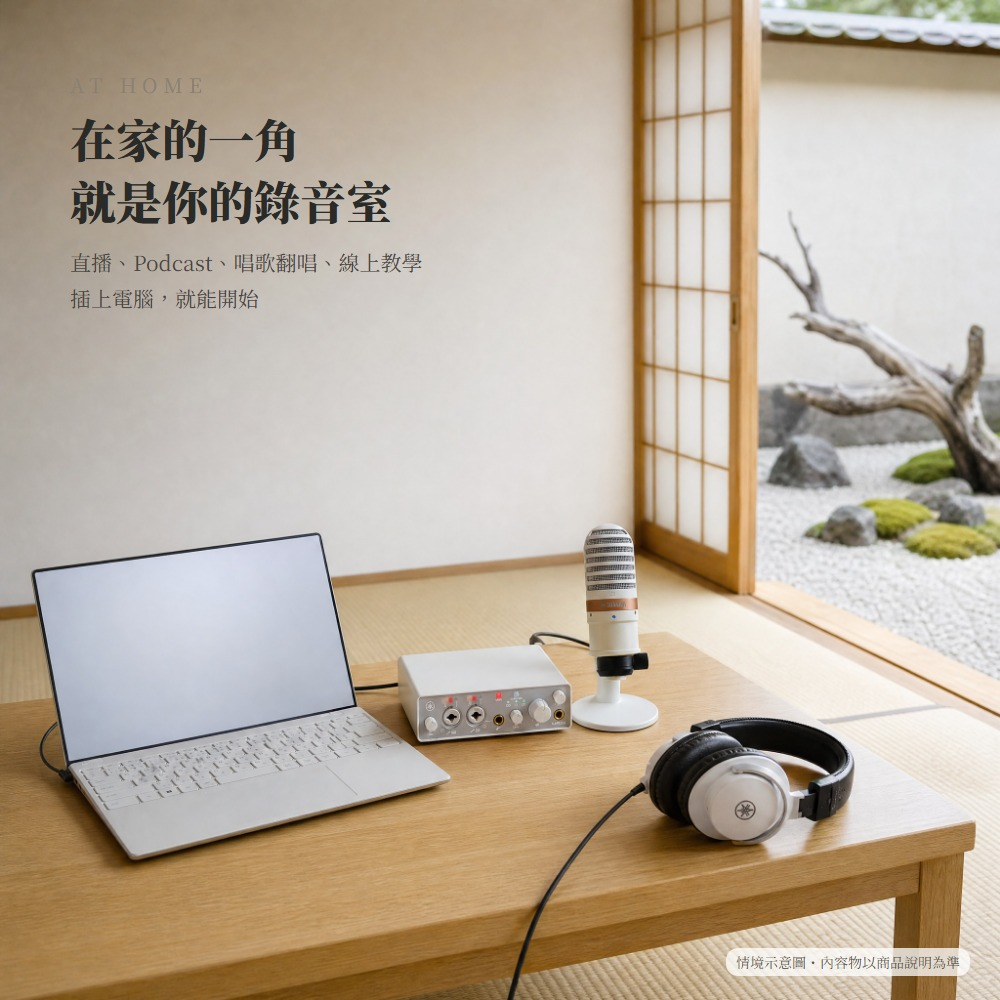
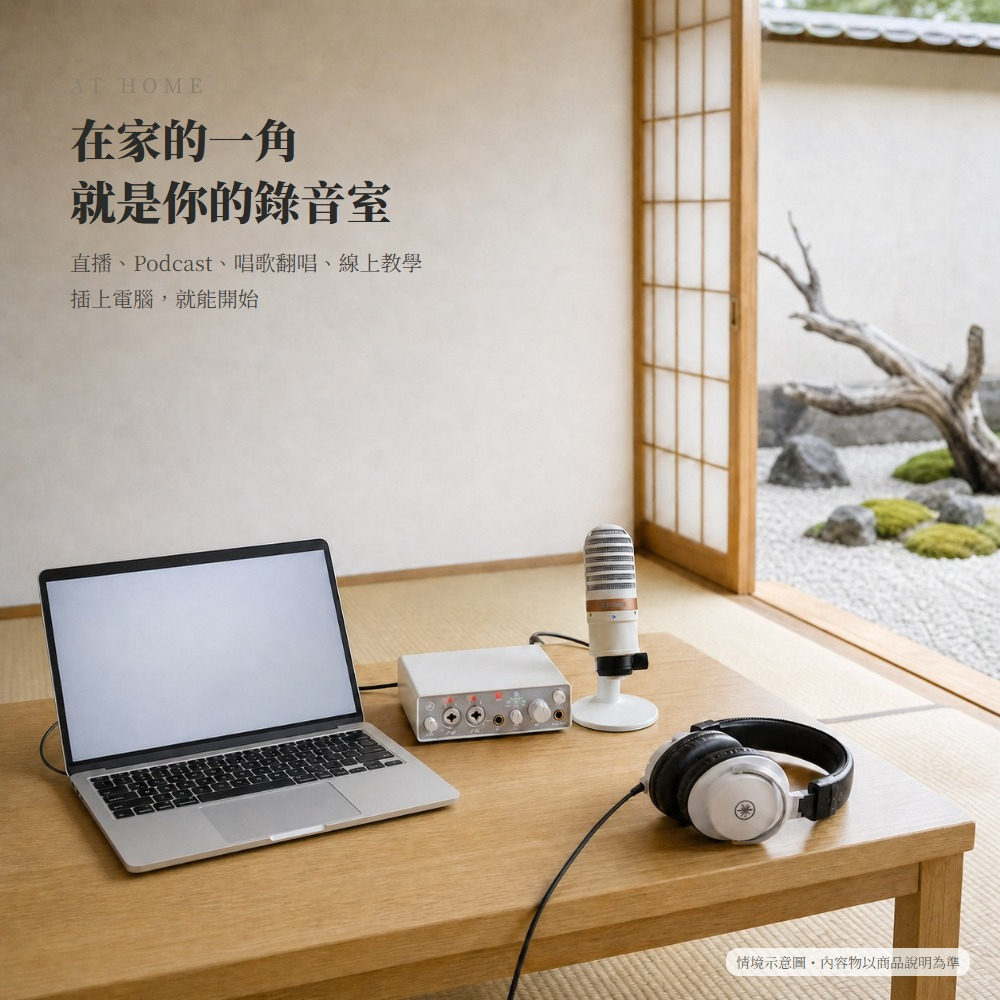
白色直播套組：加日系枯木＋店貓版14張、筆電換蘋果

diff --git a/audio/white-stream/index.html b/audio/white-stream/index.html
@@ -2,5 +2,5 @@
 <title>白色直播套組 上架圖</title><style>body{margin:0;background:#f5f5f7;font-family:-apple-system,"PingFang TC","Microsoft JhengHei",sans-serif;color:#1d1d1f}
 .w{max-width:1100px;margin:0 auto;padding:24px 16px 60px}h1{font-size:26px;margin:0 0 6px}p{color:#6e6e73;margin:0 0 16px;line-height:1.6}h2{font-size:20px;margin:26px 0 10px}
 .g{display:grid;grid-template-columns:repeat(auto-fill,minmax(160px,1fr));gap:10px}.g a{background:#fff;border-radius:10px;overflow:hidden;text-decoration:none;color:#333;font-size:12px}.g img{width:100%;display:block}.g span{display:block;padding:6px 8px}</style></head>
-<body><div class="w"><h1>白色直播套組 上架圖</h1><p>UR22MK3（白）＋YCM01 或 YDM707（白）＋HPH-MT5（白）。兩套風格：店貓ㄅㄅ版、官網日系枯山水版。順序＝主圖→情境→介面→面板→麥克風→耳機→接法用途→內容物→尺寸→規格→三須知。點圖看原尺寸。</p>
-<h2>店貓版（14 張）</h2><div class="g"><a href="cat/WS_cat_01_main.jpg" target="_blank"><img loading="lazy" src="cat/WS_cat_01_main.jpg"><span>cat_01_main</span></a><a href="cat/WS_cat_02_scene.jpg" target="_blank"><img loading="lazy" src="cat/WS_cat_02_scene.jpg"><span>cat_02_scene</span></a><a href="cat/WS_cat_03_ur22mk3.jpg" target="_blank"><img loading="lazy" src="cat/WS_cat_03_ur22mk3.jpg"><span>cat_03_ur22mk3</span></a><a href="cat/WS_cat_04_panel.jpg" target="_blank"><img loading="lazy" src="cat/WS_cat_04_panel.jpg"><span>cat_04_panel</span></a><a href="cat/WS_cat_05_mic.jpg" target="_blank"><img loading="lazy" src="cat/WS_cat_05_mic.jpg"><span>cat_05_mic</span></a><a href="cat/WS_cat_06_hph-mt5.jpg" target="_blank"><img loading="lazy" src="cat/WS_cat_06_hph-mt5.jpg"><span>cat_06_hph-mt5</span></a><a href="cat/WS_cat_07_usage.jpg" target="_blank"><img loading="lazy" src="cat/WS_cat_07_usage.jpg"><span>cat_07_usage</span></a><a href="cat/WS_cat_08_contents.jpg" target="_blank"><img loading="lazy" src="cat/WS_cat_08_contents.jpg"><span>cat_08_contents</span></a><a href="cat/WS_cat_09_size.jpg" target="_blank"><img loading="lazy" src="cat/WS_cat_09_size.jpg"><span>cat_09_size</span></a><a href="cat/WS_cat_10_spec_ur22mk3.jpg" target="_blank"><img loading="lazy" src="cat/WS_cat_10_spec_ur22mk3.jpg"><span>cat_10_spec_ur22mk3</span></a><a href="cat/WS_cat_11_spec_mic_hp.jpg" target="_blank"><img loading="lazy" src="cat/WS_cat_11_spec_mic_hp.jpg"><span>cat_11_spec_mic_hp</span></a><a href="cat/WS_cat_12_buy.jpg" target="_blank"><img loading="lazy" src="cat/WS_cat_12_buy.jpg"><span>cat_12_buy</span></a><a href="cat/WS_cat_13_return.jpg" target="_blank"><img loading="lazy" src="cat/WS_cat_13_return.jpg"><span>cat_13_return</span></a><a href="cat/WS_cat_14_remote.jpg" target="_blank"><img loading="lazy" src="cat/WS_cat_14_remote.jpg"><span>cat_14_remote</span></a></div><h2>官網日系枯山水版（14 張）</h2><div class="g"><a href="web/WS_web_01_main.jpg" target="_blank"><img loading="lazy" src="web/WS_web_01_main.jpg"><span>web_01_main</span></a><a href="web/WS_web_02_scene.jpg" target="_blank"><img loading="lazy" src="web/WS_web_02_scene.jpg"><span>web_02_scene</span></a><a href="web/WS_web_03_ur22mk3.jpg" target="_blank"><img loading="lazy" src="web/WS_web_03_ur22mk3.jpg"><span>web_03_ur22mk3</span></a><a href="web/WS_web_04_panel.jpg" target="_blank"><img loading="lazy" src="web/WS_web_04_panel.jpg"><span>web_04_panel</span></a><a href="web/WS_web_05_mic.jpg" target="_blank"><img loading="lazy" src="web/WS_web_05_mic.jpg"><span>web_05_mic</span></a><a href="web/WS_web_06_hph-mt5.jpg" target="_blank"><img loading="lazy" src="web/WS_web_06_hph-mt5.jpg"><span>web_06_hph-mt5</span></a><a href="web/WS_web_07_usage.jpg" target="_blank"><img loading="lazy" src="web/WS_web_07_usage.jpg"><span>web_07_usage</span></a><a href="web/WS_web_08_contents.jpg" target="_blank"><img loading="lazy" src="web/WS_web_08_contents.jpg"><span>web_08_contents</span></a><a href="web/WS_web_09_size.jpg" target="_blank"><img loading="lazy" src="web/WS_web_09_size.jpg"><span>web_09_size</span></a><a href="web/WS_web_10_spec_ur22mk3.jpg" target="_blank"><img loading="lazy" src="web/WS_web_10_spec_ur22mk3.jpg"><span>web_10_spec_ur22mk3</span></a><a href="web/WS_web_11_spec_mic_hp.jpg" target="_blank"><img loading="lazy" src="web/WS_web_11_spec_mic_hp.jpg"><span>web_11_spec_mic_hp</span></a><a href="web/WS_web_12_buy.jpg" target="_blank"><img loading="lazy" src="web/WS_web_12_buy.jpg"><span>web_12_buy</span></a><a href="web/WS_web_13_return.jpg" target="_blank"><img loading="lazy" src="web/WS_web_13_return.jpg"><span>web_13_return</span></a><a href="web/WS_web_14_remote.jpg" target="_blank"><img loading="lazy" src="web/WS_web_14_remote.jpg"><span>web_14_remote</span></a></div></div></body></html>
+<body><div class="w"><h1>白色直播套組 上架圖</h1><p>UR22MK3（白）＋YCM01 或 YDM707（白）＋HPH-MT5（白）。三套風格：店貓ㄅㄅ版、官網日系枯山水版、日系枯木＋店貓版。順序＝主圖→情境→介面→面板→麥克風→耳機→接法用途→內容物→尺寸→規格→三須知。點圖看原尺寸。</p>
+<h2>店貓版（14 張）</h2><div class="g"><a href="cat/WS_cat_01_main.jpg" target="_blank"><img loading="lazy" src="cat/WS_cat_01_main.jpg"><span>cat_01_main</span></a><a href="cat/WS_cat_02_scene.jpg" target="_blank"><img loading="lazy" src="cat/WS_cat_02_scene.jpg"><span>cat_02_scene</span></a><a href="cat/WS_cat_03_ur22mk3.jpg" target="_blank"><img loading="lazy" src="cat/WS_cat_03_ur22mk3.jpg"><span>cat_03_ur22mk3</span></a><a href="cat/WS_cat_04_panel.jpg" target="_blank"><img loading="lazy" src="cat/WS_cat_04_panel.jpg"><span>cat_04_panel</span></a><a href="cat/WS_cat_05_mic.jpg" target="_blank"><img loading="lazy" src="cat/WS_cat_05_mic.jpg"><span>cat_05_mic</span></a><a href="cat/WS_cat_06_hph-mt5.jpg" target="_blank"><img loading="lazy" src="cat/WS_cat_06_hph-mt5.jpg"><span>cat_06_hph-mt5</span></a><a href="cat/WS_cat_07_usage.jpg" target="_blank"><img loading="lazy" src="cat/WS_cat_07_usage.jpg"><span>cat_07_usage</span></a><a href="cat/WS_cat_08_contents.jpg" target="_blank"><img loading="lazy" src="cat/WS_cat_08_contents.jpg"><span>cat_08_contents</span></a><a href="cat/WS_cat_09_size.jpg" target="_blank"><img loading="lazy" src="cat/WS_cat_09_size.jpg"><span>cat_09_size</span></a><a href="cat/WS_cat_10_spec_ur22mk3.jpg" target="_blank"><img loading="lazy" src="cat/WS_cat_10_spec_ur22mk3.jpg"><span>cat_10_spec_ur22mk3</span></a><a href="cat/WS_cat_11_spec_mic_hp.jpg" target="_blank"><img loading="lazy" src="cat/WS_cat_11_spec_mic_hp.jpg"><span>cat_11_spec_mic_hp</span></a><a href="cat/WS_cat_12_buy.jpg" target="_blank"><img loading="lazy" src="cat/WS_cat_12_buy.jpg"><span>cat_12_buy</span></a><a href="cat/WS_cat_13_return.jpg" target="_blank"><img loading="lazy" src="cat/WS_cat_13_return.jpg"><span>cat_13_return</span></a><a href="cat/WS_cat_14_remote.jpg" target="_blank"><img loading="lazy" src="cat/WS_cat_14_remote.jpg"><span>cat_14_remote</span></a></div><h2>官網日系枯山水版（14 張）</h2><div class="g"><a href="web/WS_web_01_main.jpg" target="_blank"><img loading="lazy" src="web/WS_web_01_main.jpg"><span>web_01_main</span></a><a href="web/WS_web_02_scene.jpg" target="_blank"><img loading="lazy" src="web/WS_web_02_scene.jpg"><span>web_02_scene</span></a><a href="web/WS_web_03_ur22mk3.jpg" target="_blank"><img loading="lazy" src="web/WS_web_03_ur22mk3.jpg"><span>web_03_ur22mk3</span></a><a href="web/WS_web_04_panel.jpg" target="_blank"><img loading="lazy" src="web/WS_web_04_panel.jpg"><span>web_04_panel</span></a><a href="web/WS_web_05_mic.jpg" target="_blank"><img loading="lazy" src="web/WS_web_05_mic.jpg"><span>web_05_mic</span></a><a href="web/WS_web_06_hph-mt5.jpg" target="_blank"><img loading="lazy" src="web/WS_web_06_hph-mt5.jpg"><span>web_06_hph-mt5</span></a><a href="web/WS_web_07_usage.jpg" target="_blank"><img loading="lazy" src="web/WS_web_07_usage.jpg"><span>web_07_usage</span></a><a href="web/WS_web_08_contents.jpg" target="_blank"><img loading="lazy" src="web/WS_web_08_contents.jpg"><span>web_08_contents</span></a><a href="web/WS_web_09_size.jpg" target="_blank"><img loading="lazy" src="web/WS_web_09_size.jpg"><span>web_09_size</span></a><a href="web/WS_web_10_spec_ur22mk3.jpg" target="_blank"><img loading="lazy" src="web/WS_web_10_spec_ur22mk3.jpg"><span>web_10_spec_ur22mk3</span></a><a href="web/WS_web_11_spec_mic_hp.jpg" target="_blank"><img loading="lazy" src="web/WS_web_11_spec_mic_hp.jpg"><span>web_11_spec_mic_hp</span></a><a href="web/WS_web_12_buy.jpg" target="_blank"><img loading="lazy" src="web/WS_web_12_buy.jpg"><span>web_12_buy</span></a><a href="web/WS_web_13_return.jpg" target="_blank"><img loading="lazy" src="web/WS_web_13_return.jpg"><span>web_13_return</span></a><a href="web/WS_web_14_remote.jpg" target="_blank"><img loading="lazy" src="web/WS_web_14_remote.jpg"><span>web_14_remote</span></a></div><h2>官網日系枯木＋店貓版（14 張）</h2><div class="g"><a href="wcat/WS_wcat_01_main.jpg" target="_blank"><img loading="lazy" src="wcat/WS_wcat_01_main.jpg"><span>wcat_01_main</span></a><a href="wcat/WS_wcat_02_scene.jpg" target="_blank"><img loading="lazy" src="wcat/WS_wcat_02_scene.jpg"><span>wcat_02_scene</span></a><a href="wcat/WS_wcat_03_ur22mk3.jpg" target="_blank"><img loading="lazy" src="wcat/WS_wcat_03_ur22mk3.jpg"><span>wcat_03_ur22mk3</span></a><a href="wcat/WS_wcat_04_panel.jpg" target="_blank"><img loading="lazy" src="wcat/WS_wcat_04_panel.jpg"><span>wcat_04_panel</span></a><a href="wcat/WS_wcat_05_mic.jpg" target="_blank"><img loading="lazy" src="wcat/WS_wcat_05_mic.jpg"><span>wcat_05_mic</span></a><a href="wcat/WS_wcat_06_hph-mt5.jpg" target="_blank"><img loading="lazy" src="wcat/WS_wcat_06_hph-mt5.jpg"><span>wcat_06_hph-mt5</span></a><a href="wcat/WS_wcat_07_usage.jpg" target="_blank"><img loading="lazy" src="wcat/WS_wcat_07_usage.jpg"><span>wcat_07_usage</span></a><a href="wcat/WS_wcat_08_contents.jpg" target="_blank"><img loading="lazy" src="wcat/WS_wcat_08_contents.jpg"><span>wcat_08_contents</span></a><a href="wcat/WS_wcat_09_size.jpg" target="_blank"><img loading="lazy" src="wcat/WS_wcat_09_size.jpg"><span>wcat_09_size</span></a><a href="wcat/WS_wcat_10_spec_ur22mk3.jpg" target="_blank"><img loading="lazy" src="wcat/WS_wcat_10_spec_ur22mk3.jpg"><span>wcat_10_spec_ur22mk3</span></a><a href="wcat/WS_wcat_11_spec_mic_hp.jpg" target="_blank"><img loading="lazy" src="wcat/WS_wcat_11_spec_mic_hp.jpg"><span>wcat_11_spec_mic_hp</span></a><a href="wcat/WS_wcat_12_buy.jpg" target="_blank"><img loading="lazy" src="wcat/WS_wcat_12_buy.jpg"><span>wcat_12_buy</span></a><a href="wcat/WS_wcat_13_return.jpg" target="_blank"><img loading="lazy" src="wcat/WS_wcat_13_return.jpg"><span>wcat_13_return</span></a><a href="wcat/WS_wcat_14_remote.jpg" target="_blank"><img loading="lazy" src="wcat/WS_wcat_14_remote.jpg"><span>wcat_14_remote</span></a></div></div></body></html>

diff --git a/index.html b/index.html
@@ -10,7 +10,7 @@ h2{font-size:20px;margin:34px 0 10px}a{color:var(--blue);text-decoration:none}
 .c i{font-style:normal;color:var(--sub);font-size:13px;line-height:1.6;display:block}.c em{font-style:normal;font-size:12px;color:#1f8a4c}</style></head><body><div class="w">
 <h1>YA 上架圖庫</h1><p class="s">已做好的商品圖總入口。電商圖、官網圖分開放，別混用。圖上不放店名。</p>
 <h2>工讀生工作單</h2><div class="cards">
-<a class="c" href="audio/white-stream/index.html"><b>白色直播套組 上架圖</b><i>UR22MK3＋YCM01/YDM707＋HPH-MT5 白色；店貓版＋官網日系枯山水版 各 14 張</i><em>NEW</em></a>
+<a class="c" href="audio/white-stream/index.html"><b>白色直播套組 上架圖</b><i>UR22MK3＋YCM01/YDM707＋HPH-MT5 白色；店貓版／官網日系枯山水版／日系＋店貓版 各 14 張</i><em>NEW</em></a>
 <a class="c" href="todo/2026-11-27-pc-name.html"><b>工讀生工作單 11/27 PChome 後台商品名稱</b><i>13 個（Veelah 11、火龍吉他、aNueNue 烏克麗麗）改商品名稱</i><em>NEW</em></a>
 <a class="c" href="todo/2026-11-24.html"><b>工讀生工作單 11/24 電子鼓</b><i>PChome 改品名 6 個、下架 1 個、MOMO DTX6K5-M／TD-313 換圖</i><em>NEW</em></a>
 </div>
